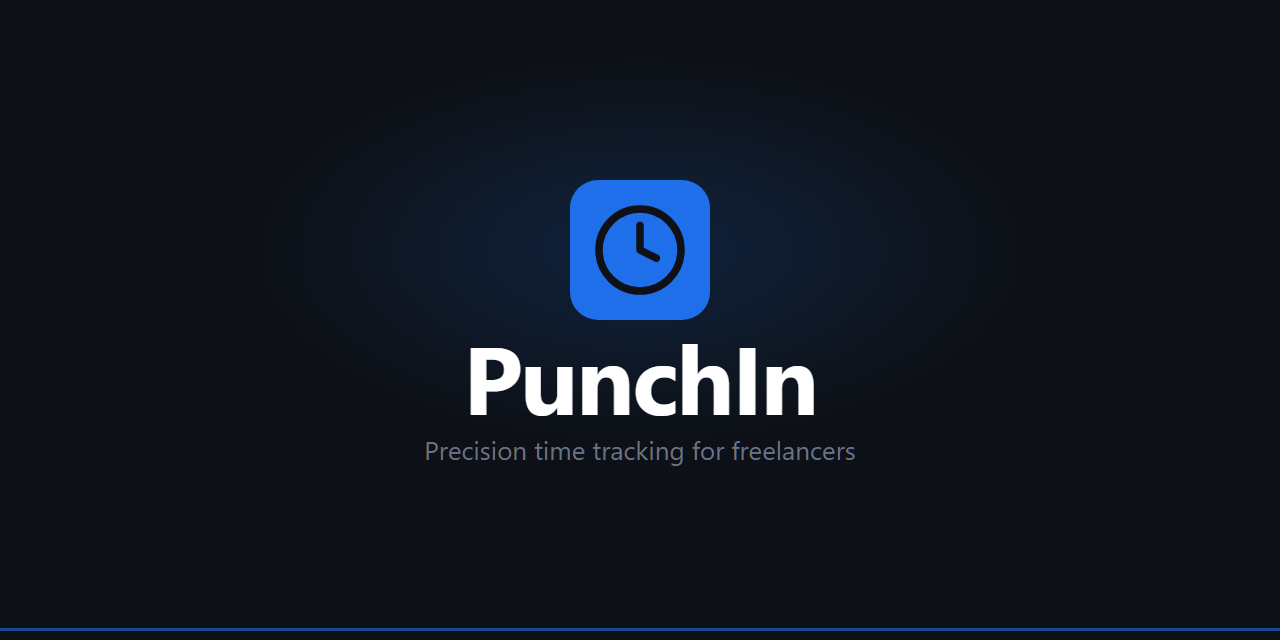
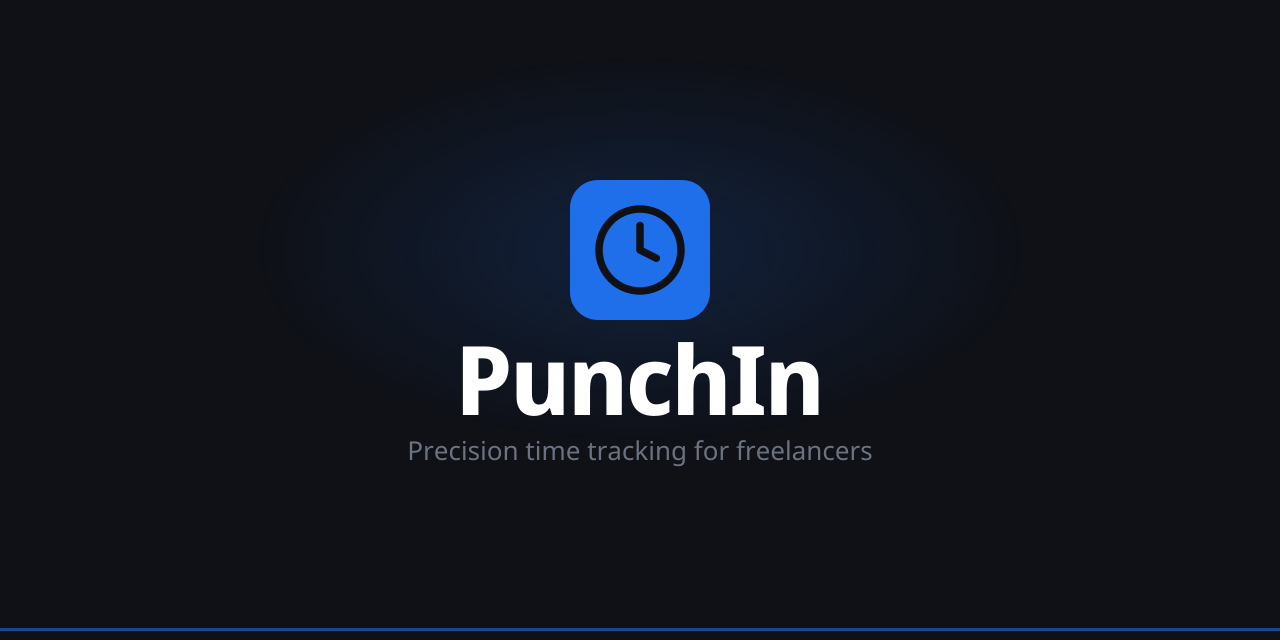
docs: render social cards in Noto + document font licensing (#106)
- Regenerate docs/social-preview{,-light}.svg and social-preview.png so the
  wordmark (Noto Sans Display) and tagline (Noto Sans) match the app's type
  family. Glyphs are converted to vector outlines so the cards render Noto on
  GitHub without a webfont, and no font binary is committed.
- Add scripts/social-preview.py — a reproducible generator (fontTools outlining
  + sharp raster), build-time only like icons.mjs/screenshots.
- Add font attribution + licensing: docs/licenses/OFL-1.1.txt (SIL OFL 1.1
  covering Noto Sans / Display / Mono) and docs/THIRD-PARTY-LICENSES.md
  explaining that the fonts are CDN-loaded (not redistributed) and that
  outlined artwork is not OFL-bound.
- Document the Noto type stack + licensing in README (Tech Stack row + Credits
  section) and CLAUDE.md (Typography & Fonts section, repo-structure entries).

No version bump — documentation/asset/build-script only; no app UI changed.

Changed region(s): [[0.3438, 0.5312, 0.6562, 0.6562], [0.3125, 0.6875, 0.6875, 0.7188]]

diff --git a/scripts/social-preview.py b/scripts/social-preview.py
@@ -1,0 +1,182 @@
+#!/usr/bin/env python3
+"""Generate the GitHub social-preview cards (docs/social-preview*.svg + .png).
+
+The cards mirror the in-app brand: the lucide-style Clock mark on the accent
+square (#1f6feb), the "PunchIn" wordmark, and the product tagline. The wordmark
+and tagline are rendered in the app's own type family — Noto Sans Display
+(wordmark) and Noto Sans (tagline) — to match the UI.
+
+Why outlines instead of <text>?
+  GitHub does not load the Google Fonts stylesheet for an inline SVG, so a
+  <text font-family="Noto Sans"> element would silently fall back to whatever
+  sans-serif the viewer happens to have. We therefore convert the glyphs to
+  vector <path> outlines so the cards render in Noto everywhere, with no font
+  dependency at view time.
+
+  Outlining the glyphs into artwork does NOT redistribute the font software, so
+  no font binary is committed and no SIL OFL redistribution obligation is
+  triggered by these assets. The fonts themselves are licensed under the SIL
+  Open Font License 1.1 — see docs/licenses/OFL-1.1.txt and
+  docs/THIRD-PARTY-LICENSES.md.
+
+Run from the project root (build-time tools are not committed deps, like sharp
+for icons.mjs and Playwright for screenshots):
+
+    python3 -m venv /tmp/sp-venv && /tmp/sp-venv/bin/pip install fonttools
+    npm install --no-save sharp
+    /tmp/sp-venv/bin/python scripts/social-preview.py
+
+The script downloads the Noto variable fonts on first run (cached under the
+font dir) and shells out to `sharp` via Node for the PNG rasterization.
+"""
+
+import os
+import subprocess
+import sys
+import tempfile
+import urllib.request
+
+ACCENT = "#1f6feb"
+DARK = "#0F1117"
+MUTED = "#6B7280"
+WORDMARK_DARK_BG = "#FFFFFF"   # wordmark fill on dark backgrounds
+WORDMARK_LIGHT_BG = "#111827"  # wordmark fill on light backgrounds
+
+ROOT = os.path.dirname(os.path.dirname(os.path.abspath(__file__)))
+DOCS = os.path.join(ROOT, "docs")
+FONT_DIR = os.environ.get("NOTO_FONT_DIR", os.path.join(tempfile.gettempdir(), "punchin-noto"))
+
+FONTS = {
+    "display": (
+        "NotoSansDisplay.ttf",
+        "https://github.com/google/fonts/raw/main/ofl/notosansdisplay/NotoSansDisplay%5Bwdth%2Cwght%5D.ttf",
+    ),
+    "sans": (
+        "NotoSans.ttf",
+        "https://github.com/google/fonts/raw/main/ofl/notosans/NotoSans%5Bwdth%2Cwght%5D.ttf",
+    ),
+}
+
+
+def ensure_fonts():
+    os.makedirs(FONT_DIR, exist_ok=True)
+    paths = {}
+    for key, (name, url) in FONTS.items():
+        path = os.path.join(FONT_DIR, name)
+        if not os.path.exists(path):
+            print(f"downloading {name} …")
+            urllib.request.urlretrieve(url, path)
+        paths[key] = path
+    return paths
+
+
+def text_to_paths(font_path, text, font_size, weight, cx, baseline, letter_spacing=0.0):
+    """Return an SVG <g> of outlined glyphs, centered horizontally on cx,
+    sitting on the given baseline (SVG y-down coordinates)."""
+    from fontTools.ttLib import TTFont
+    from fontTools.varLib.instancer import instantiateVariableFont
+    from fontTools.pens.svgPathPen import SVGPathPen
+
+    f = TTFont(font_path)
+    instantiateVariableFont(f, {"wght": weight, "wdth": 100}, inplace=True)
+    upm = f["head"].unitsPerEm
+    scale = font_size / upm
+    cmap = f.getBestCmap()
+    glyphset = f.getGlyphSet()
+    hmtx = f["hmtx"]
+    ls_fu = (letter_spacing / scale) if scale else 0  # letter-spacing px → font units
+
+    pen_x = 0.0
+    glyph_paths = []
+    for ch in text:
+        gname = cmap.get(ord(ch), ".notdef")
+        pen = SVGPathPen(glyphset)
+        glyphset[gname].draw(pen)
+        d = pen.getCommands()
+        if d:
+            glyph_paths.append(f'<path transform="translate({pen_x:.2f},0)" d="{d}"/>')
+        pen_x += hmtx[gname][0] + ls_fu
+    total_fu = pen_x - ls_fu  # drop trailing letter-spacing
+    origin_x = cx - (total_fu * scale) / 2
+    # scale(scale,-scale) flips the font's y-up outlines into SVG's y-down space.
+    return (
+        f'<g transform="translate({origin_x:.2f},{baseline}) scale({scale:.5f},{-scale:.5f})">'
+        + "".join(glyph_paths)
+        + "</g>"
+    )
+
+
+def build_svg(fonts, wordmark_fill, glow_opacity):
+    wordmark = text_to_paths(fonts["display"], "PunchIn", 96, 700, 640, 415, letter_spacing=-2)
+    tagline = text_to_paths(
+        fonts["sans"], "Precision time tracking for freelancers", 26, 400, 640, 460
+    )
+    return f'''<svg xmlns="http://www.w3.org/2000/svg" viewBox="0 0 1280 640" width="1280" height="640">
+  <defs>
+    <radialGradient id="glow" cx="50%" cy="39%" r="30%">
+      <stop offset="0%" stop-color="{ACCENT}" stop-opacity="{glow_opacity}"/>
+      <stop offset="100%" stop-color="{ACCENT}" stop-opacity="0"/>
+    </radialGradient>
+  </defs>
+  <!-- Subtle blue glow behind icon -->
+  <rect width="1280" height="640" fill="url(#glow)"/>
+  <!-- Icon: blue rounded square (logo icon scaled 48→140, factor ≈2.917) -->
+  <rect x="570" y="180" width="140" height="140" rx="28" fill="{ACCENT}"/>
+  <!-- Clock face -->
+  <circle cx="640" cy="250" r="41" fill="none" stroke="{DARK}" stroke-width="7.5" stroke-linecap="round" stroke-linejoin="round"/>
+  <!-- Clock hands -->
+  <polyline points="640,225.5 640,250 656.3,258.2" fill="none" stroke="{DARK}" stroke-width="7.5" stroke-linecap="round" stroke-linejoin="round"/>
+  <!-- Wordmark (Noto Sans Display 700, outlined) -->
+  <g fill="{wordmark_fill}">{wordmark}</g>
+  <!-- Tagline (Noto Sans 400, outlined) -->
+  <g fill="{MUTED}">{tagline}</g>
+  <!-- Blue accent bar -->
+  <rect x="0" y="628" width="1280" height="3" fill="{ACCENT}" opacity="0.6"/>
+</svg>
+'''
+
+
+def rasterize_png(svg_path, png_path):
+    """Flatten the (transparent) dark SVG onto the brand navy and write a PNG
+    via Node + sharp — the same rasterizer scripts/icons.mjs uses."""
+    node_script = f'''
+const sharp = require('sharp');
+const fs = require('fs');
+const svg = fs.readFileSync({svg_path!r});
+sharp(svg, {{ density: 144 }})
+  .resize(1280, 640)
+  .flatten({{ background: '{DARK}' }})
+  .png()
+  .toFile({png_path!r})
+  .then(() => console.log('wrote', {png_path!r}))
+  .catch((e) => {{ console.error(e); process.exit(1); }});
+'''
+    subprocess.run(["node", "-e", node_script], cwd=ROOT, check=True)
+
+
+def main():
+    fonts = ensure_fonts()
+    dark = build_svg(fonts, WORDMARK_DARK_BG, 0.18)
+    light = build_svg(fonts, WORDMARK_LIGHT_BG, 0.08)
+    dark_path = os.path.join(DOCS, "social-preview.svg")
+    light_path = os.path.join(DOCS, "social-preview-light.svg")
+    with open(dark_path, "w") as fh:
+        fh.write(dark)
+    with open(light_path, "w") as fh:
+        fh.write(light)
+    print("wrote", dark_path)
+    print("wrote", light_path)
+    try:
+        rasterize_png(dark_path, os.path.join(DOCS, "social-preview.png"))
+    except (subprocess.CalledProcessError, FileNotFoundError) as e:
+        print(
+            "\nPNG step skipped — install Node + sharp first:\n"
+            "  npm install --no-save sharp\n"
+            f"({e})",
+            file=sys.stderr,
+        )
+        sys.exit(1)
+
+
+if __name__ == "__main__":
+    main()

diff --git a/CLAUDE.md b/CLAUDE.md
@@ -32,9 +32,16 @@ punchin/
 │   └── tailwind.config.js  # Custom fonts (Noto Sans, Noto Sans Display, Noto Sans Mono) + CSS-variable-backed color tokens
 ├── scripts/
 │   ├── screenshots.mjs     # Playwright script: seeds demo data + captures 42 screenshots (7 views × 3 devices × 2 themes)
-│   └── icons.mjs           # Generates app/public icon set (Clock mark on accent square) via sharp; run to regenerate brand icons
+│   ├── icons.mjs           # Generates app/public icon set (Clock mark on accent square) via sharp; run to regenerate brand icons
+│   └── social-preview.py   # Regenerates docs/social-preview*.svg + .png (Noto wordmark/tagline as outlined paths via fontTools; PNG via sharp). Build-time only — no font binary committed
 ├── docs/
 │   ├── CHANGELOG.md        # Version history; imported at build time by ChangelogModal via ?raw import
+│   ├── THIRD-PARTY-LICENSES.md # Attribution + license terms for bundled/used third-party assets (the Noto fonts, OFL-1.1)
+│   ├── social-preview.svg      # GitHub README header / repo social card (dark); transparent bg, Noto wordmark outlined
+│   ├── social-preview-light.svg # Light-mode variant of the header card
+│   ├── social-preview.png      # Raster repo social card (1280×640) flattened on brand navy
+│   ├── licenses/
+│   │   └── OFL-1.1.txt     # SIL Open Font License 1.1 — covers Noto Sans / Display / Mono
 │   └── screenshots/
 │       ├── phone-dark/     # Phone · dark theme (412×916 CSS px @2.625×) — 7 views
 │       ├── phone-light/    # Phone · light theme — 7 views
@@ -445,6 +452,20 @@ Themes are controlled via CSS custom properties defined in `src/index.css`.
 - **Accent:** `appAccent` / `text-appAccent` tokens — active nav, buttons, highlights (user-configurable; defaults to `#1f6feb`)
 - **Stop/end actions:** red (`red-500`, `red-600`) — punch-out buttons and other irreversible-but-non-destructive actions; also used for destructive confirmations
 - **Labor type colors:** 9 preset hex values defined in `JobsView.jsx` (`#6366F1 #F59E0B #22C55E #3B82F6 #EF4444 #EC4899 #8B5CF6 #14B8A6 #F97316`) + custom picker via `ColorPicker.jsx`; stored as hex strings in the `laborTypes` table
+
+### Typography & Fonts
+
+The UI uses Google's **Noto** type family, mapped to Tailwind tokens in `tailwind.config.js`:
+
+| Tailwind class | Family | Use |
+|---|---|---|
+| `font-sans` | Noto Sans | Default body / UI text |
+| `font-display` | Noto Sans Display (falls back to Noto Sans) | Headings, the brand wordmark |
+| `font-mono` | Noto Sans Mono | Timers / numerals |
+
+- The fonts are **loaded from the Google Fonts CDN** via the `<link>` in `app/index.html` — they are **not** self-hosted or committed. The repo redistributes no font binaries.
+- All three Noto families are licensed under the **SIL Open Font License 1.1**. The license text lives at `docs/licenses/OFL-1.1.txt`, and `docs/THIRD-PARTY-LICENSES.md` records the attribution and how the fonts are used. If you ever switch to self-hosting (committing the binaries), the OFL then requires shipping that license alongside them — it already is.
+- The social-preview cards render the wordmark/tagline as **outlined vector paths** (not `<text>` + font, and not embedded font binaries) so they show Noto on GitHub without a webfont. Regenerate them with `scripts/social-preview.py` whenever the wordmark, tagline, or brand mark changes — never hand-edit the `<path>` data.
 
 ### Tailwind Custom Color Tokens
 

diff --git a/docs/THIRD-PARTY-LICENSES.md b/docs/THIRD-PARTY-LICENSES.md
@@ -1,0 +1,41 @@
+# Third-Party Licenses
+
+PunchIn's own source is licensed under the [Business Source License 1.1](../LICENSE).
+This file documents third-party assets bundled with or used by the project whose
+licenses differ from the project license.
+
+## Fonts — Noto Sans family
+
+PunchIn's interface uses Google's **Noto** typeface family:
+
+| Family | Where it's used | Copyright |
+|--------|-----------------|-----------|
+| **Noto Sans** | Body / UI text (Tailwind `font-sans`) | © 2022 The Noto Project Authors |
+| **Noto Sans Display** | Headings and the brand wordmark (Tailwind `font-display`) | © 2012 Google Inc. |
+| **Noto Sans Mono** | Monospaced numerals / timers (Tailwind `font-mono`) | © 2022 The Noto Project Authors |
+
+All three are licensed under the **SIL Open Font License, Version 1.1 (OFL-1.1)**.
+The full license text is included at [`docs/licenses/OFL-1.1.txt`](licenses/OFL-1.1.txt)
+and is also available with a FAQ at <https://openfontlicense.org>.
+
+### How the fonts are used
+
+- **At runtime** the fonts are loaded from the **Google Fonts CDN**
+  (`fonts.googleapis.com` / `fonts.gstatic.com`), declared in
+  [`app/index.html`](../app/index.html). The project does **not** bundle,
+  self-host, or redistribute the font binaries — they are served by Google to
+  the user's browser. This is plain *use* of the fonts, which the OFL permits
+  freely.
+
+- **At build time** the social-preview cards
+  ([`docs/social-preview.svg`](social-preview.svg),
+  [`docs/social-preview-light.svg`](social-preview-light.svg), and
+  [`docs/social-preview.png`](social-preview.png)) render the wordmark and
+  tagline by converting Noto glyphs to vector **outlines** (see
+  [`scripts/social-preview.py`](../scripts/social-preview.py)). Per the OFL FAQ,
+  artwork/documents created with a font — including text converted to outlines —
+  are **not** bound by the OFL, and no font binary is committed to this repo.
+
+Because no Noto font software is redistributed in this repository, the OFL's
+bundling conditions are not triggered; the license is included here for
+attribution and transparency.

diff --git a/README.md b/README.md
@@ -246,6 +246,7 @@ A `usePlatformContext()` hook detects standalone mode and the host OS at runtime
 | Database | Dexie 4 (IndexedDB) |
 | Charts | Recharts 3 |
 | Date utilities | date-fns 4 |
+| Typography | Noto Sans / Display / Mono (via Google Fonts, OFL-1.1) |
 | Icons | lucide-react |
 | PWA | vite-plugin-pwa |
 | Hosting | Cloudflare Workers |
@@ -328,6 +329,12 @@ All contributors must agree to the [Contributor License Agreement](.github/CLA.m
 ## Security
 
 Found a security vulnerability? Please report it privately — see [SECURITY.md](SECURITY.md) for how. Do **not** open a public issue for security reports.
+
+---
+
+## Credits
+
+PunchIn's interface is set in Google's **Noto** type family — **Noto Sans** (UI text), **Noto Sans Display** (headings and the wordmark), and **Noto Sans Mono** (timers) — served from the Google Fonts CDN. The Noto fonts are licensed under the [SIL Open Font License 1.1](docs/licenses/OFL-1.1.txt); see [docs/THIRD-PARTY-LICENSES.md](docs/THIRD-PARTY-LICENSES.md) for full attribution.
 
 ---
 
